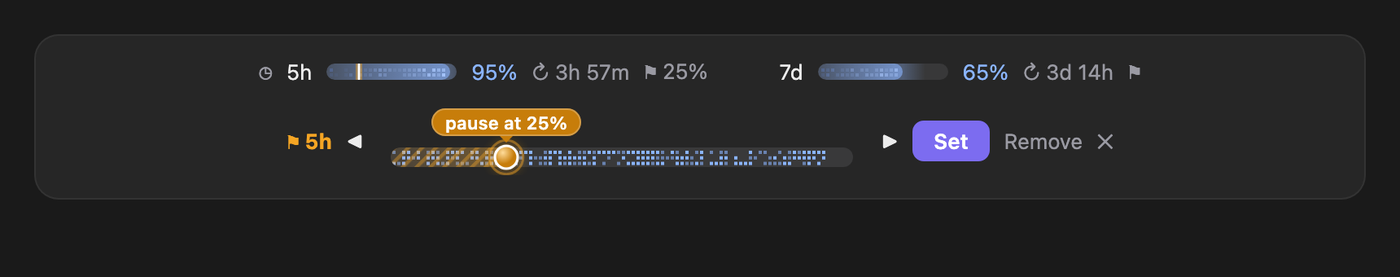
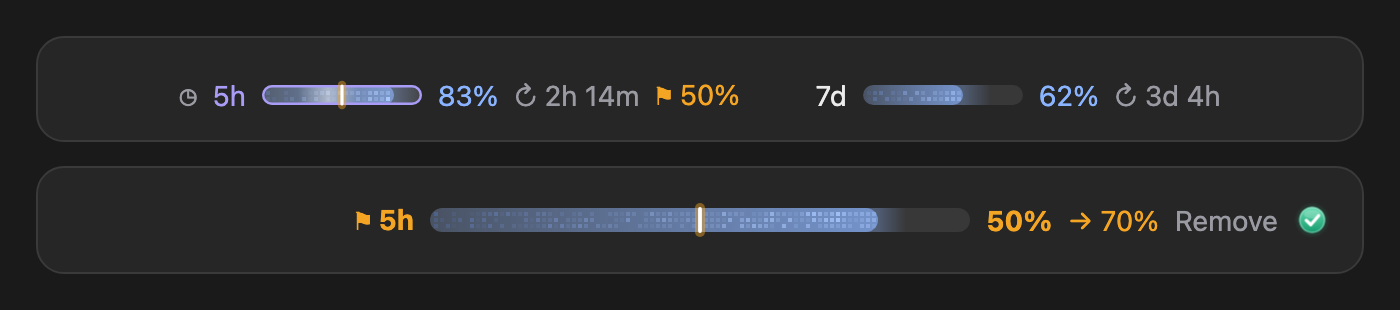
Release 1.1.0
Folding into a line of rings, waiting rows for messages sent mid-turn,
limits set from the quota capsule itself and validated with ✓, and a
refresh every minute for plans another conversation of the folder
reports. The README gains screenshots of the folded line, the waiting
rows and the new limit picker.

diff --git a/progress/README.md b/progress/README.md
@@ -67,11 +67,15 @@ Les plans de la première version n'avaient pas de dossier. Au chargement, ceux 
 
 Un vrai bouton « ▴ Collapse », au bout de la ligne des quotas, replie tous les plans en une seule ligne, façon stepper : un anneau par plan, reliés par un fil. Un plan terminé est un disque émeraude avec sa coche. Un plan en cours est un arc lavande qui fait le tour de l'anneau à hauteur de son avancement, avec un cœur qui respire, et une étincelle tourne autour de celui sur lequel Claude travaille. Suivent le nom du plan en cours, son étape (« 4/5 · 4 done »), le pourcentage global et le bouton « ▾ 5 tasks », qui rouvre la liste. Quand tout est fini, la ligne affiche « All done » en émeraude. Au-delà de 12 plans, les plus anciens plans terminés se résument en « +3 ». Au repli, les anneaux apparaissent en fondu l'un après l'autre. À la réouverture, chaque barre se dévoile derrière un bord lumineux. La ligne des quotas reste en dessous. Le choix est retenu par dossier, dans `view:<dossier>`. Dans le terminal, la ligne repliée s'écrit `✓─✓─◑ Tests 2/4 · 1 done 63%`, et la boucle d'animation ne repeint plus les lignes masquées.
 
+![La ligne repliée en anneaux](screenshots/desktop-folded.png)
+
 ## Les messages en attente
 
 Quand vous envoyez un message pendant que Claude travaille, il s'ajoute au bandeau comme une tâche en attente. Il est nommé d'après sa première ligne, en italique, avec un rond creux indigo. Sa barre ne se remplit pas : quelques LED indigo y respirent lentement, une lueur douce va et vient d'un bout à l'autre comme un scanner, et une pastille vitrée « ⧗ Waiting #1 » donne sa place dans la file. Le sablier se retourne de temps en temps. Dans le terminal, la pastille est suivie d'une piste pointillée où glisse la même lueur. Dans la ligne repliée, c'est un anneau en pointillés qui tourne lentement, et le résumé ajoute « · 1 waiting ».
 
 Quand Claude commence un plan pour ce message, il appelle `report_progress` avec `queued: true` : la ligne en attente la plus ancienne devient ce plan, à la même place, et sa barre se dévoile derrière un bord lumineux. À la fin du tour, les messages encore en attente de cette conversation disparaissent, puisque Claude les a tous reçus. Les commandes `/…`, les notifications de tâches et les messages d'autres sessions ne créent pas de ligne. Les lignes en attente sont rangées par dossier comme les plans. Les autres conversations du dossier les voient donc, mais seule la conversation d'origine les efface. Une ligne orpheline de plus de 6 heures, après un plantage, est supprimée au chargement.
+
+![Des messages en attente sous un plan en cours](screenshots/desktop-waiting.png)
 
 ## Le `✕` qui dissout
 
@@ -83,11 +87,13 @@ Le `✕` ne fait pas disparaître la ligne d'un coup. Sur Desktop, chaque LED se
 | --- | --- |
 | `session.start` | Enregistre l'outil `report_progress` (`$.tool.register`) et la commande `/progress` (`$.command.register`, `immediate`), puis charge les plans depuis `$.store`. |
 | `tool.describe` sur l'outil | Le garde listé dans le prompt plutôt que derrière ToolSearch, pour que Claude l'utilise sans le chercher. |
-| `tool.call` sur `mcp__progress__report_progress` | Lit l'appel (`plan`, `step`, `total`, `note`, `done`, `remove`), met le plan à jour, l'enregistre sous `plan:<id>`, lance l'animation de remplissage (et le flash si le plan se termine), redessine, puis joue `fx/step-done.wav` ou `fx/plan-done.wav` sans retenir la réponse de l'outil. Un `.catch` renvoie l'erreur au modèle plutôt que de laisser l'appel sans réponse. |
+| `tool.call` sur `mcp__progress__report_progress` | Lit l'appel (`plan`, `step`, `total`, `note`, `done`, `remove`, `queued`), met le plan à jour (ou transforme le plus ancien message en attente en ce plan, avec `queued`), l'enregistre sous `plan:<id>`, lance l'animation de remplissage (et le flash si le plan se termine), redessine, puis joue `fx/step-done.wav` ou `fx/plan-done.wav` sans retenir la réponse de l'outil. Un `.catch` renvoie l'erreur au modèle plutôt que de laisser l'appel sans réponse. |
 | `ui.render` sur `AbovePrompt` | Dessine l'en-tête puis une ligne par plan, au-dessus de ce que dessinent les mods en dessous (`await next(e)`). Laisse le bandeau tel quel sans plan ou pendant un sondage. |
 | `turn.start` | Relit le store, pour afficher les plans signalés par une autre session du même dossier, et lance le spinner. |
 | `session.measure` | Met à jour les fenêtres de 5 h et de 7 jours quand le moteur les mesure. |
-| `turn.complete` | Arrête le spinner et le reflet à la fin du tour principal. |
+| `turn.complete` | Arrête le spinner et le reflet à la fin du tour principal, et efface les messages en attente de cette conversation. |
+| `prompt.submit` | Ajoute une ligne en attente pour un message envoyé pendant un tour (`e.turnId` présent, venu de la personne) ; lève aussi la pause quand la personne écrit pendant une pause. |
+| `session.end` | Efface les messages en attente de la conversation qui se termine. |
 | `command.run` sur `progress` | `/progress` liste les plans, `/progress clear` les supprime tous, `/progress remove <plan>` en supprime un. |
 | `prompt.compose` | Ajoute une courte section au prompt système, quand l'outil est offert, pour demander à Claude de signaler son avancement. |
 
@@ -103,6 +109,7 @@ Appels sur `$` : `audio.play`, `clock.every`, `clock.now`, `command.register`, `
 | `note` | string | L'étape qui commence, en un à trois mots (« Tests », « Deploy ») : le texte de la pastille. |
 | `done` | boolean | `true` quand le plan est fini : `step` devient `total`. |
 | `remove` | boolean | `true` pour retirer la ligne. |
+| `queued` | boolean | `true` quand ce nouveau plan prend en charge un message envoyé pendant le travail : la plus ancienne ligne en attente devient ce plan. |
 
 La pastille affiche l'étape en cours, `step + 1`, et le pourcentage les étapes terminées : « Tests 3/5 » à 40 %. Le pourcentage plafonne à 99 % tant que `step < total`.
 
@@ -132,17 +139,17 @@ progress/
 │   ├── raster.ts                # l'encodage base64 des cellules d'un Raster (et son décodage pour les tests)
 │   └── views/
 │       ├── band.tsx             # le bandeau en JSX : terminal, Desktop, texte
-│       ├── svg-bar.ts           # la barre SVG du Desktop : matrice de LED, halo, pastille
-│       ├── svg-alert.ts         # l'emblème et la vague de l'alerte, le sélecteur de limite
+│       ├── svg-bar.ts           # les SVG du Desktop : barres, ligne en attente, anneaux, capsules de quota
+│       ├── svg-alert.ts         # l'emblème et la vague de l'alerte, la coche ✓ du sélecteur
 │       ├── guard.tsx            # la carte d'alerte, le sélecteur, les boutons de limite
-│       └── dial-drag.tsx        # la couche Client qui fait glisser le curseur de limite
+│       └── dial-drag.tsx        # la couche Client du sélecteur, dans le terminal
 ├── fx/
 │   ├── step-done.wav
 │   ├── plan-done.wav
 │   ├── alert.wav
 │   └── dissolve.wav
 ├── screenshots/                 # le GIF et les captures de ce README
-├── tests/register.test.ts       # 26 tests pour `claude plugin test`
+├── tests/                       # 32 tests pour `claude plugin test`
 └── tsconfig.json
 ```
 
@@ -170,7 +177,7 @@ Puis demander un travail en plusieurs étapes, par exemple « fais ce refactor e
 ```sh
 claude plugin validate --strict ./progress   # analyse statique : hooks et appels
 npx -p typescript tsc -p ./progress          # typage de hooks/ et tests/
-claude plugin test ./progress                # les 26 tests
+claude plugin test ./progress                # les 32 tests
 ```
 
 Les tests stubbent le monde sous le mod (`store.*`, `audio.play`, `ui.blit`, `tool.register`, `ui.render`, l'horloge avec `mock.clock`), montent le bandeau avec `$.ui.mount` sur les surfaces terminal et Desktop, décodent les cellules des `Raster` pour lire la pastille et le pourcentage, lisent le SVG du Desktop, avancent l'horloge pour suivre le remplissage, et pressent `✕`. Un test couvre le rechargement à chaud : un module rechargé qui reçoit un appel avant son `session.start` relit d'abord le store.

diff --git a/README.md b/README.md
@@ -4,7 +4,7 @@ Claude Code mods by NyxStudio: plugins whose hooks module changes how Claude Cod
 
 | Mod | What it does |
 | --- | --- |
-| [`progress`](progress/) | An animated progress band above the prompt: one row per plan Claude reports (an LED-matrix bar, a chip naming the stage, the percentage, a ✕ that dissolves the row), the 5h and 7d plan limits under it, and a limit you drag into place that pauses the work when it is reached. |
+| [`progress`](progress/) | An animated progress band above the prompt: one row per plan Claude reports (an LED-matrix bar, a chip naming the stage, the percentage, a ✕ that dissolves the row), messages you send mid-turn shown as waiting rows, a fold into one line of rings, the 5h and 7d plan limits under it, and a limit you click into place that pauses the work when it is reached. |
 
 ![progress](progress/screenshots/desktop-band.gif)
 
